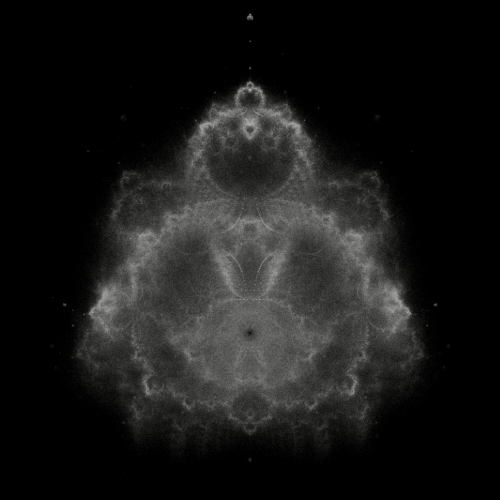
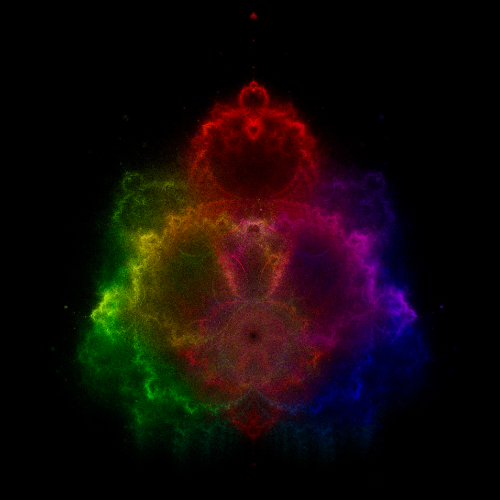
Shaded the Buddhabrot fractal by complex argument

diff --git a/Coding/script.js b/Coding/script.js
@@ -78,7 +78,7 @@ const links = [
   "https://replit.com/@marcus11333/ASCII?v=1",
   "https://ducks-with-sliders.marcus11333.repl.co",
   "https://reaction-diffusion-p5.marcus11333.repl.co/",
-  "https://buddhabrot.marcus11333.repl.co/"
+  "https://buddhafractal.marcus11333.repl.co"
 ]
 
 for (i in titles){
